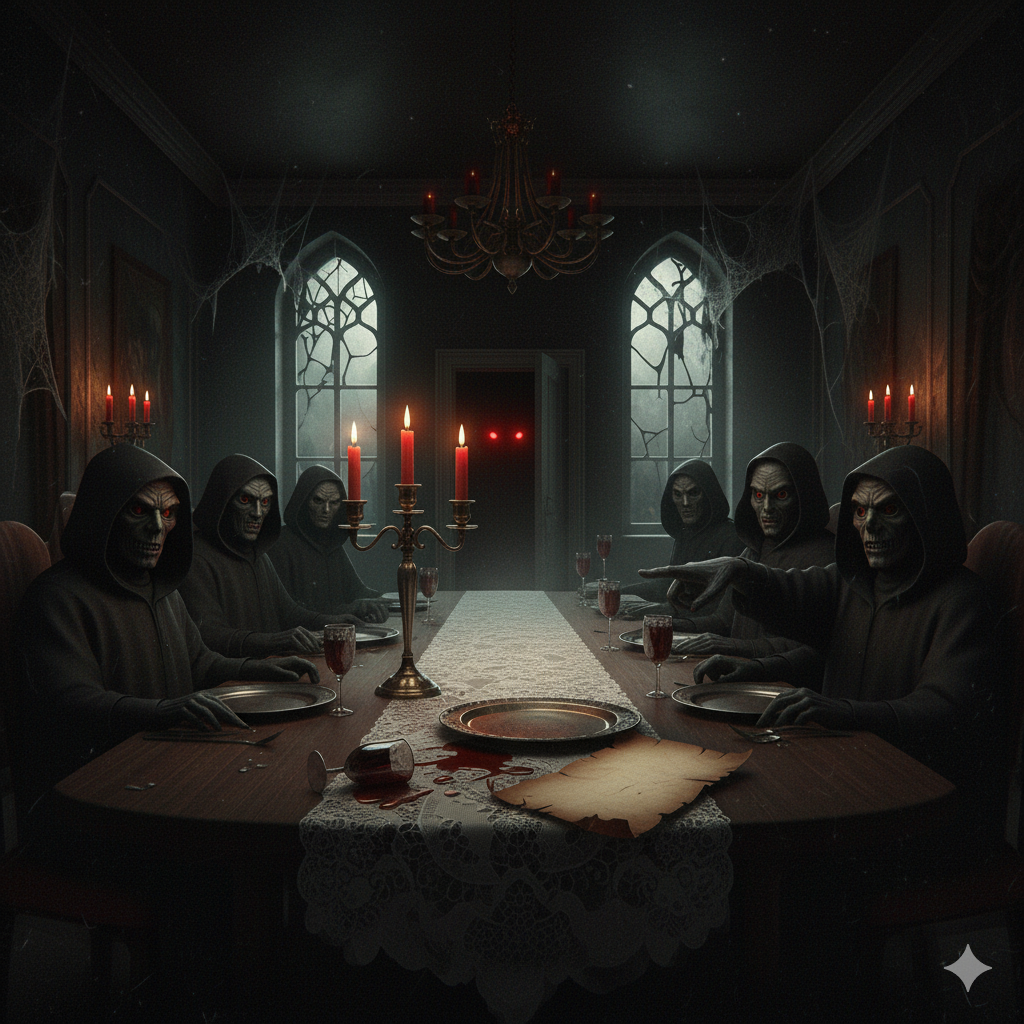
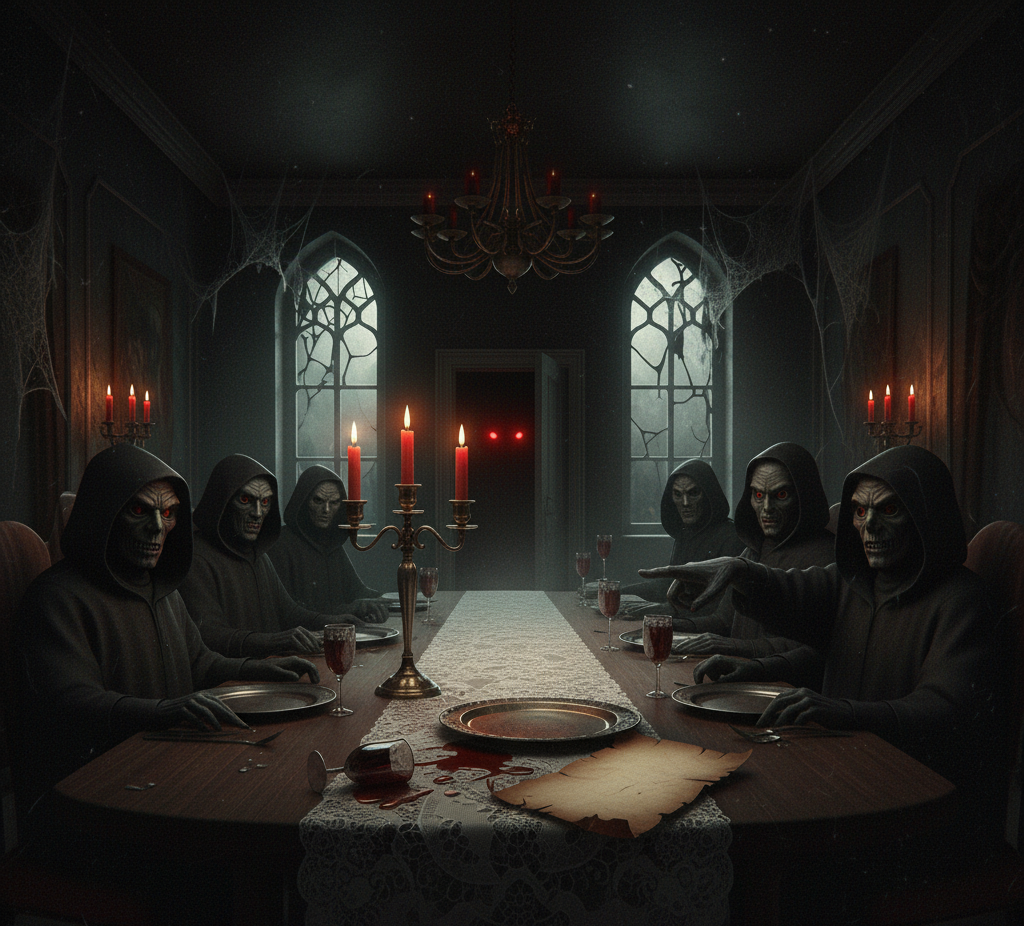
Mejora el encuadre de las tarjetas de eventos y quita la marca de agua de la imagen de cenas

diff --git a/src/app/HomeContent.tsx b/src/app/HomeContent.tsx
@@ -98,8 +98,9 @@ export default function HomeContent() {
         </div>
         <div className="grid sm:grid-cols-2 lg:grid-cols-3 gap-8 pt-12 max-w-6xl mx-auto">
           <EventCard
-            imageSrc="/78042.jpg"
+            imageSrc="/070b0295-4015-4c2c-88d2-eb7f50120fa1.jpg"
             imageHint="extreme house terror"
+            imagePosition="object-top"
             title="Extreme House"
             description="La experiencia de terror definitiva. Adéntrate en un mundo de pesadilla donde tus peores miedos cobran vida. No apto para sensibles."
             href="/eventos/extreme-house"
@@ -108,6 +109,7 @@ export default function HomeContent() {
           <EventCard
             imageSrc="/229f6432-7b10-4354-ad95-9103e3bcdb4a.jpg"
             imageHint="haunted house passage"
+            imagePosition="object-top"
             title="Pasajes del Terror"
             description="Recorridos inmersivos llenos de sustos, actores y efectos especiales. Ideal para fiestas de Halloween, ayuntamientos y centros comerciales."
             href="/eventos/pasajes-del-terror"
@@ -219,9 +221,11 @@ interface EventCardProps {
   description: string;
   href: string;
   animationDelay?: string;
+  /** Encuadre del recorte, para fotos verticales donde el centro no es lo interesante. */
+  imagePosition?: string;
 }
 
-function EventCard({ imageSrc, imageHint, title, description, href, animationDelay }: EventCardProps) {
+function EventCard({ imageSrc, imageHint, title, description, href, animationDelay, imagePosition = 'object-center' }: EventCardProps) {
   return (
     <Link href={href}>
       <Card className="text-left overflow-hidden transform transition-transform hover:scale-105 duration-300 bg-scratches border-border/50 group animate-slide-up cursor-pointer" style={{ animationDelay }}>
@@ -232,7 +236,7 @@ function EventCard({ imageSrc, imageHint, title, description, href, animationDel
             height={400}
             alt={title}
             sizes="(max-width: 640px) 100vw, (max-width: 1024px) 50vw, 33vw"
-            className="w-full h-48 object-cover transition-all duration-500 group-hover:scale-110 group-hover:blur-sm group-hover:brightness-50"
+            className={`w-full h-48 object-cover ${imagePosition} transition-all duration-500 group-hover:scale-110 group-hover:blur-sm group-hover:brightness-50`}
             data-ai-hint={imageHint}
           />
           <div className="absolute inset-0 bg-gradient-to-t from-primary/80 to-transparent opacity-0 group-hover:opacity-100 transition-opacity duration-300"></div>

diff --git a/src/app/eventos/page.tsx b/src/app/eventos/page.tsx
@@ -11,13 +11,25 @@ export const metadata: Metadata = {
   alternates: { canonical: '/eventos' },
 };
 
-const eventServices = [
+type EventService = {
+  icon: typeof Skull;
+  title: string;
+  description: string;
+  imageSrc: string;
+  imageHint: string;
+  href: string;
+  /** Encuadre del recorte, para fotos verticales donde el centro no es lo interesante. */
+  imagePosition?: string;
+};
+
+const eventServices: EventService[] = [
   {
     icon: Skull,
     title: "Extreme House",
     description: "La experiencia de terror definitiva, solo para mayores de 18 años. Grupos reducidos, 45 minutos y actores entrenados para llevarte al límite de tu resistencia. No apto para sensibles.",
-    imageSrc: "/78042.jpg",
+    imageSrc: "/070b0295-4015-4c2c-88d2-eb7f50120fa1.jpg",
     imageHint: "extreme house terror",
+    imagePosition: "object-top",
     href: "/eventos/extreme-house",
   },
   {
@@ -26,6 +38,7 @@ const eventServices = [
     description: "Diseñamos y montamos pasajes del terror a medida para todo tipo de públicos y espacios: fiestas privadas, eventos de empresa, ayuntamientos, centros comerciales y más. Nos encargamos de la escenografía, actores, efectos especiales y sonido.",
     imageSrc: "/229f6432-7b10-4354-ad95-9103e3bcdb4a.jpg",
     imageHint: "haunted house passage interior",
+    imagePosition: "object-top",
     href: "/eventos/pasajes-del-terror",
   },
   {
@@ -76,7 +89,7 @@ export default function EventosPage() {
                     width={600}
                     height={400}
                     alt={service.title}
-                    className="w-full h-64 md:h-full object-cover transition-transform duration-500 hover:scale-105"
+                    className={`w-full h-64 md:h-full object-cover ${service.imagePosition ?? 'object-center'} transition-transform duration-500 hover:scale-105`}
                     sizes="(max-width: 768px) 100vw, 40vw"
                     data-ai-hint={service.imageHint}
                   />
